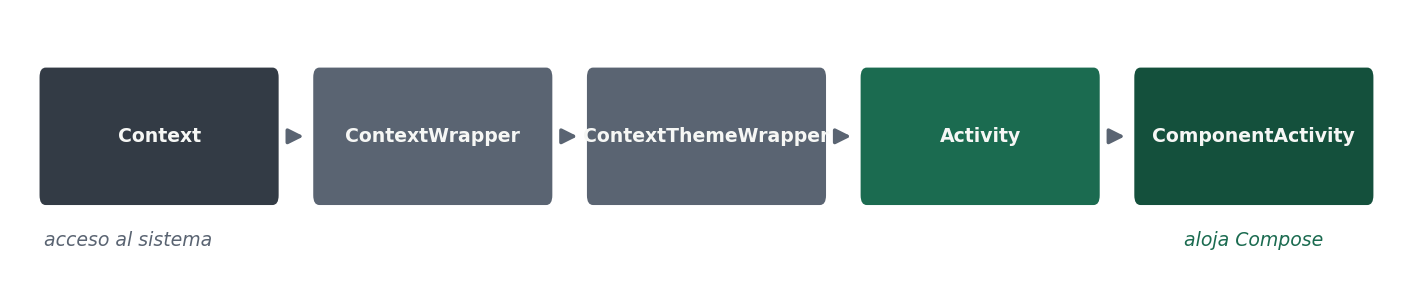
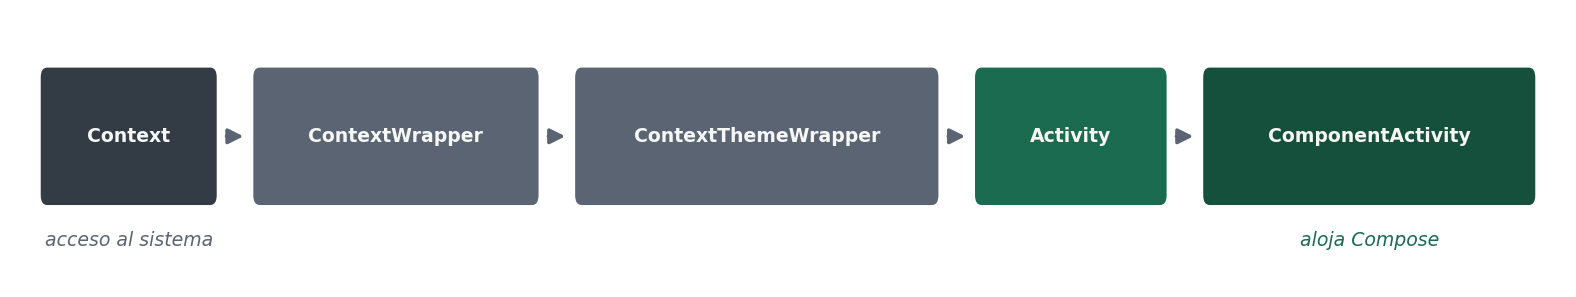
docs: niveles de API y numeracion de apartados

diff --git a/docusaurus.config.js b/docusaurus.config.js
@@ -25,7 +25,14 @@ const config = {
       'classic',
       /** @type {import('@docusaurus/preset-classic').Options} */
       ({
-        docs: { routeBasePath: '/', sidebarPath: './sidebars.js' },
+        docs: {
+          routeBasePath: '/',
+          sidebarPath: './sidebars.js',
+          // Fecha de la última modificación al pie de cada página.
+          // La saca de los commits, así que no hay que mantenerla a mano.
+          // Necesita fetch-depth: 0 en .github/workflows/deploy.yml.
+          showLastUpdateTime: true,
+        },
         blog: false,
         theme: { customCss: './src/css/custom.css' },
       }),

diff --git a/docs/android/ut1/versiones-y-fragmentacion.md b/docs/android/ut1/versiones-y-fragmentacion.md
@@ -30,6 +30,24 @@ Ese esquema desapareció como tal, y la idea sigue intacta con otros nombres:
 | Dispositivos soportados | `<uses-feature>`: cámara, GPS, biometría. La tienda filtra los incompatibles | `AndroidManifest.xml` |
 | Capacidades de pantalla | Densidades `mdpi` a `xxxhdpi`, y unidades `dp` y `sp` | Carpetas `res/` |
 
+## Qué es un nivel de API
+
+Cada versión de Android trae su propio conjunto de clases y funciones que podéis llamar desde el código. A ese conjunto se le llama **API**, y para no tener que nombrar la versión comercial dentro del proyecto, cada una lleva además un **nivel de API**: un número entero que sube de uno en uno con cada versión.
+
+| Android | Nivel de API | Año |
+|---|---|---|
+| 13 | 33 | 2022 |
+| 14 | 34 | 2023 |
+| 15 | 35 | 2024 |
+| 16 | 36 | 2025 |
+
+Dos cosas que conviene fijar:
+
+- El nombre comercial —Android 16— es para el usuario. El **nivel de API** —36— es el que escribís vosotros en el `build.gradle.kts`. Es el mismo sistema dicho de dos maneras.
+- El número sube siempre y nunca se reutiliza, y cada nivel **incluye todo lo anterior**: una clase que existía en API 24 sigue existiendo en API 36, salvo que Google la haya marcado como obsoleta.
+
+Los tres números del apartado siguiente son niveles de API, no versiones comerciales.
+
 ## Los tres números que declara vuestro proyecto
 
 | | Qué significa | Si os equivocáis |
@@ -45,15 +63,6 @@ La regla es siempre **`minSdk` ≤ `targetSdk` ≤ `compileSdk`**.
 Desde el 31 de agosto de 2026, **Google Play exige `targetSdk` 36 (Android 16)** para aplicaciones nuevas y para actualizaciones. Mantener ese número al día no es opcional: es la razón de que haya que revisar una aplicación todos los años aunque no cambie ni una funcionalidad.
 
 En iOS, el equivalente del `minSdk` es el **Deployment Target** y el del `compileSdk` es el **Base SDK**.
-
-### Niveles de API
-
-| Android | Nivel de API |
-|---|---|
-| 13 | 33 |
-| 14 | 34 |
-| 15 | 35 |
-| 16 | 36 |
 
 ## La fragmentación
 
